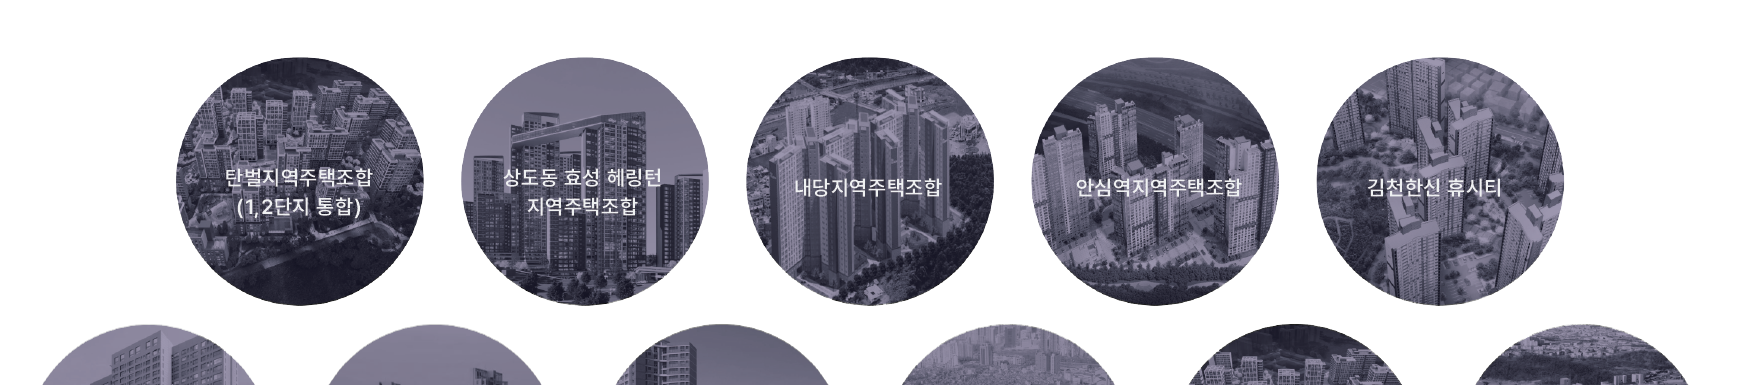
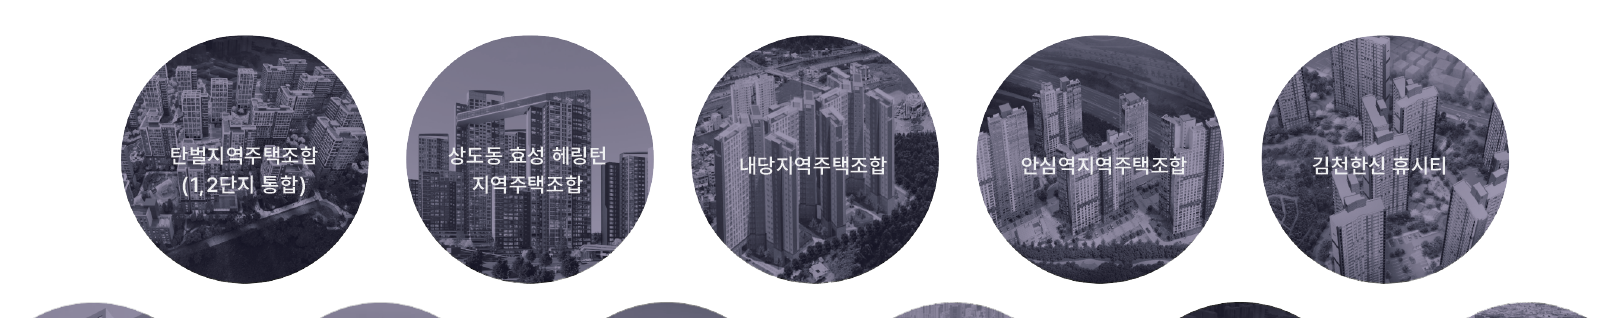
fix: refine portfolio and text sections

diff --git a/index.html b/index.html
@@ -6,7 +6,7 @@
     <meta name="theme-color" content="#063e62" />
     <meta name="description" content="전국 주요 부동산 개발 프로젝트와 3D 지도를 한눈에 확인하는 더인파트너스 포트폴리오" />
     <title>THE IN PARTNERS — Performance</title>
-    <link rel="stylesheet" href="./css/style.css?v=20260630-sections" />
+    <link rel="stylesheet" href="./css/style.css?v=20260630-portfolio-lines" />
   </head>
   <body>
     <header class="ell-header">
@@ -14,7 +14,7 @@
         <img src="./assets/brand/the-in-logo.png" alt="THE IN PARTNERS" />
       </button>
       <nav aria-label="Main navigation">
-        <button data-jump="story">THE IN</button>
+        <button data-jump="business">THE IN</button>
         <button data-jump="business">BUSINESS</button>
         <button data-jump="map">PORTFOLIO</button>
         <button data-jump="news">PR &amp; NOTICE</button>
@@ -39,18 +39,25 @@
         </div>
       </section>
 
-      <section class="city-intro" id="story">
-        <h2 data-reveal>사업을 다시 <span>설계하고</span></h2>
-        <h2 data-reveal>신뢰를 다시 <span>세웁니다</span></h2>
-      </section>
-
       <section class="world-copy" id="business">
-        <div class="world-lines strategy-lines">
-          <p class="slide-line from-left" data-reveal><b>HUMAN</b><span>사람을 바탕으로<br />조합원의 가치를 먼저 생각하는</span></p>
-          <p class="slide-line from-right" data-reveal><b>TRUSTWORTHY</b><span>사업을 다시 설계하고<br />신뢰를 다시 세웁니다</span></p>
-          <p class="slide-line from-left" data-reveal><b>SUCCESS</b><span>데이터와 실적 중심의 사업 전략<br />기획부터 해산까지 이어지는 통합 관리</span></p>
+      <div class="strategy-lines">
+        <div class="strategy-block strategy-human">
+          <b class="slide-line from-up" data-reveal>HUMAN</b>
+          <span class="slide-line from-down" data-reveal>사람을 바탕으로</span>
+          <span class="slide-line from-up" data-reveal>조합원의 가치를 먼저 생각하는</span>
         </div>
-      </section>
+        <div class="strategy-block strategy-trust">
+          <b class="slide-line from-down" data-reveal>TRUSTWORTHY</b>
+          <span class="slide-line from-up" data-reveal>사업을 다시 설계하고</span>
+          <span class="slide-line from-down" data-reveal>신뢰를 다시 세웁니다</span>
+        </div>
+        <div class="strategy-block strategy-success">
+          <b class="slide-line from-up" data-reveal>SUCCESS</b>
+          <span class="slide-line from-down" data-reveal>데이터와 실적 중심의 사업 전략</span>
+          <span class="slide-line from-up" data-reveal>기획부터 해산까지 이어지는 통합 관리</span>
+        </div>
+      </div>
+    </section>
 
       <section class="portfolio-flow" aria-label="THE IN PARTNERS 실적">
         <div class="portfolio-flow-head">
@@ -122,7 +129,7 @@
     <footer class="ell-footer" id="footer">
       <img src="./assets/brand/the-in-logo.png" alt="THE IN PARTNERS" />
       <div class="footer-links">
-        <button data-jump="story">ABOUT</button>
+        <button data-jump="business">ABOUT</button>
         <button data-jump="map">DISCOVER</button>
         <button data-jump="news">WHAT'S NEW</button>
         <button data-jump="top">BACK TO TOP</button>

diff --git a/css/style.css b/css/style.css
@@ -101,3 +101,33 @@ body{font-family:Pretendard,Manrope,Arial,sans-serif!important}
 @media(max-width:900px){.ell-header{height:88px!important;padding:0 22px!important;gap:24px!important}.ell-logo{width:39px!important}.ell-header nav{gap:22px!important}.ell-header nav button,.header-tools button{font-size:13px!important}.hero-title{left:24px;right:24px;bottom:24px}.hero-title-row{grid-template-columns:1fr 56px;padding-bottom:9px}.hero-title-row span{font-size:clamp(48px,17vw,96px)}.hero-title-row b{font-size:14px;padding-bottom:6px}}
 .ell-header.is-solid .ell-logo img{content:url("../assets/brand/solid-nav-logo.png")!important;filter:none!important}
 .world-copy{background:linear-gradient(180deg,#312b7f 0%,#524b91 100%)!important;color:#fff!important;min-height:100vh!important;padding:76px 42px 80px!important;overflow:hidden!important}.strategy-lines{display:grid!important;gap:84px!important}.strategy-lines p{position:relative!important;margin:0!important;color:#fff!important}.strategy-lines b{display:block!important;font-size:clamp(86px,10vw,180px)!important;line-height:.82!important;font-weight:900!important;letter-spacing:-.04em!important}.strategy-lines span{display:block!important;font-size:clamp(22px,2.1vw,40px)!important;line-height:1.25!important;font-weight:800!important;letter-spacing:-.04em!important}.strategy-lines p:nth-child(1) span{text-align:right;padding-right:58vw}.strategy-lines p:nth-child(2){text-align:right}.strategy-lines p:nth-child(2) span{padding-right:0}.strategy-lines p:nth-child(3) span{padding-left:8px}.portfolio-flow{background:linear-gradient(180deg,#5b5396,#363184)!important;color:#fff!important;overflow:hidden!important;padding:44px 0 86px!important}.portfolio-flow-head{margin:0 42px 90px!important;display:grid!important;grid-template-columns:1fr auto!important;align-items:end!important;border-top:2px solid rgba(255,255,255,.9)!important;border-bottom:2px solid rgba(255,255,255,.9)!important;padding:12px 0!important}.portfolio-flow-head h2{margin:0!important;font-size:clamp(52px,7vw,132px)!important;line-height:.9!important;font-weight:900!important;letter-spacing:.04em!important}.portfolio-flow-head span{font-size:clamp(24px,2.2vw,42px)!important;font-weight:900!important}.portfolio-flow>p{text-align:center!important;font-size:clamp(22px,2vw,36px)!important;line-height:1.25!important;font-weight:900!important;margin:0 0 48px!important}.portfolio-marquee{overflow:hidden!important;margin:20px 0!important}.portfolio-marquee>div{display:flex!important;width:max-content!important;gap:0!important;animation:marquee-ltr 30s linear infinite!important}.portfolio-marquee.bottom>div{animation-name:marquee-rtl!important}.portfolio-marquee img{display:block!important;width:min(1500px,110vw)!important;max-width:none!important}@keyframes marquee-ltr{from{transform:translateX(-50%)}to{transform:translateX(0)}}@keyframes marquee-rtl{from{transform:translateX(0)}to{transform:translateX(-50%)}}@media(max-width:900px){.world-copy{padding:68px 20px!important}.strategy-lines{gap:70px!important}.strategy-lines p:nth-child(1) span{padding-right:0;text-align:left}.portfolio-flow-head{margin:0 20px 54px!important}.portfolio-marquee img{width:170vw!important}}
+
+/* 2026-06-30 portfolio and business refinements */
+.city-intro{display:none!important}
+.world-copy{background:#352c83!important;color:#fff!important;min-height:118vh!important;padding:7.5vw 2.4vw 8vw!important;overflow:hidden!important}
+.strategy-lines{display:flex!important;flex-direction:column!important;gap:12vw!important;font-family:Pretendard,Arial,sans-serif!important}
+.strategy-block{color:#fff!important;line-height:1!important}
+.strategy-block b,.strategy-block span{display:block!important;color:#fff!important;letter-spacing:0!important;font-weight:900!important;will-change:transform,opacity!important}
+.strategy-block b{font-size:clamp(72px,10vw,205px)!important;line-height:.82!important}
+.strategy-block span{font-size:clamp(25px,2.7vw,54px)!important;line-height:1.18!important}
+.strategy-human{width:min(58vw,980px)!important;text-align:left!important}
+.strategy-human span{text-align:right!important}
+.strategy-trust{align-self:flex-end!important;text-align:right!important;width:min(76vw,1500px)!important}
+.strategy-trust span{padding-right:2vw!important}
+.strategy-success{width:min(70vw,1320px)!important;text-align:left!important}
+.slide-line.from-up:not(.in-view){transform:translateY(74px)!important;opacity:0!important}
+.slide-line.from-down:not(.in-view){transform:translateY(-74px)!important;opacity:0!important}
+.slide-line.in-view{transform:translateY(0)!important;opacity:1!important;transition:transform 1.05s cubic-bezier(.19,1,.22,1),opacity .8s ease!important}
+.portfolio-flow{background:#5a5297!important;padding:5vw 0 7vw!important;overflow:hidden!important;color:#fff!important}
+.portfolio-flow__title{padding:0 2.4vw!important;margin-bottom:5vw!important}
+.portfolio-flow__title h2{color:#fff!important;font-size:clamp(48px,6.6vw,132px)!important;line-height:.9!important;border-top:2px solid #fff!important;border-bottom:2px solid #fff!important;padding:.18em 0!important}
+.portfolio-flow__title span{color:#fff!important;font-size:clamp(22px,2.2vw,42px)!important}
+.portfolio-marquee{overflow:hidden!important;width:100%!important;margin:0!important;height:clamp(245px,22vw,390px)!important}
+.portfolio-marquee+.portfolio-marquee{margin-top:2.6vw!important}
+.portfolio-marquee__track{display:flex!important;gap:0!important;width:max-content!important;align-items:center!important}
+.portfolio-marquee__track img{height:clamp(235px,21vw,370px)!important;width:auto!important;display:block!important;flex:0 0 auto!important;object-fit:contain!important;max-width:none!important}
+.portfolio-marquee--top .portfolio-marquee__track{animation:portfolioLeft 34s linear infinite!important}
+.portfolio-marquee--bottom .portfolio-marquee__track{animation:portfolioRight 38s linear infinite!important}
+@keyframes portfolioLeft{from{transform:translateX(0)}to{transform:translateX(-50%)}}
+@keyframes portfolioRight{from{transform:translateX(-50%)}to{transform:translateX(0)}}
+@media(max-width:760px){.world-copy{min-height:92vh!important;padding:80px 18px!important}.strategy-lines{gap:110px!important}.portfolio-marquee{height:170px!important}.portfolio-marquee__track img{height:165px!important}.portfolio-flow__title{padding:0 18px!important}}